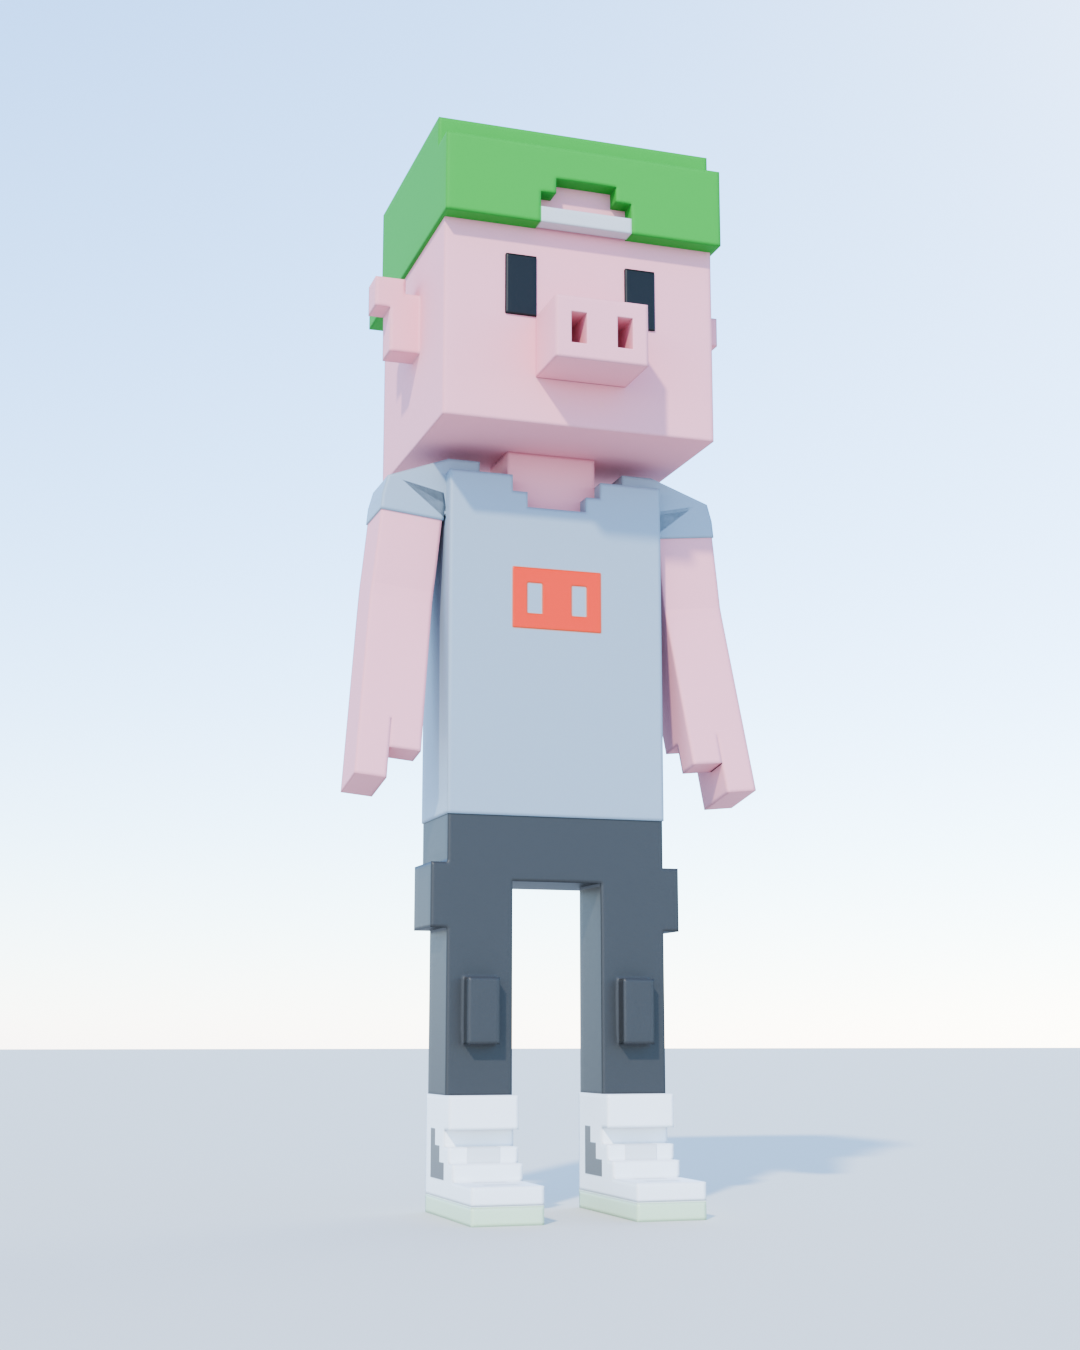
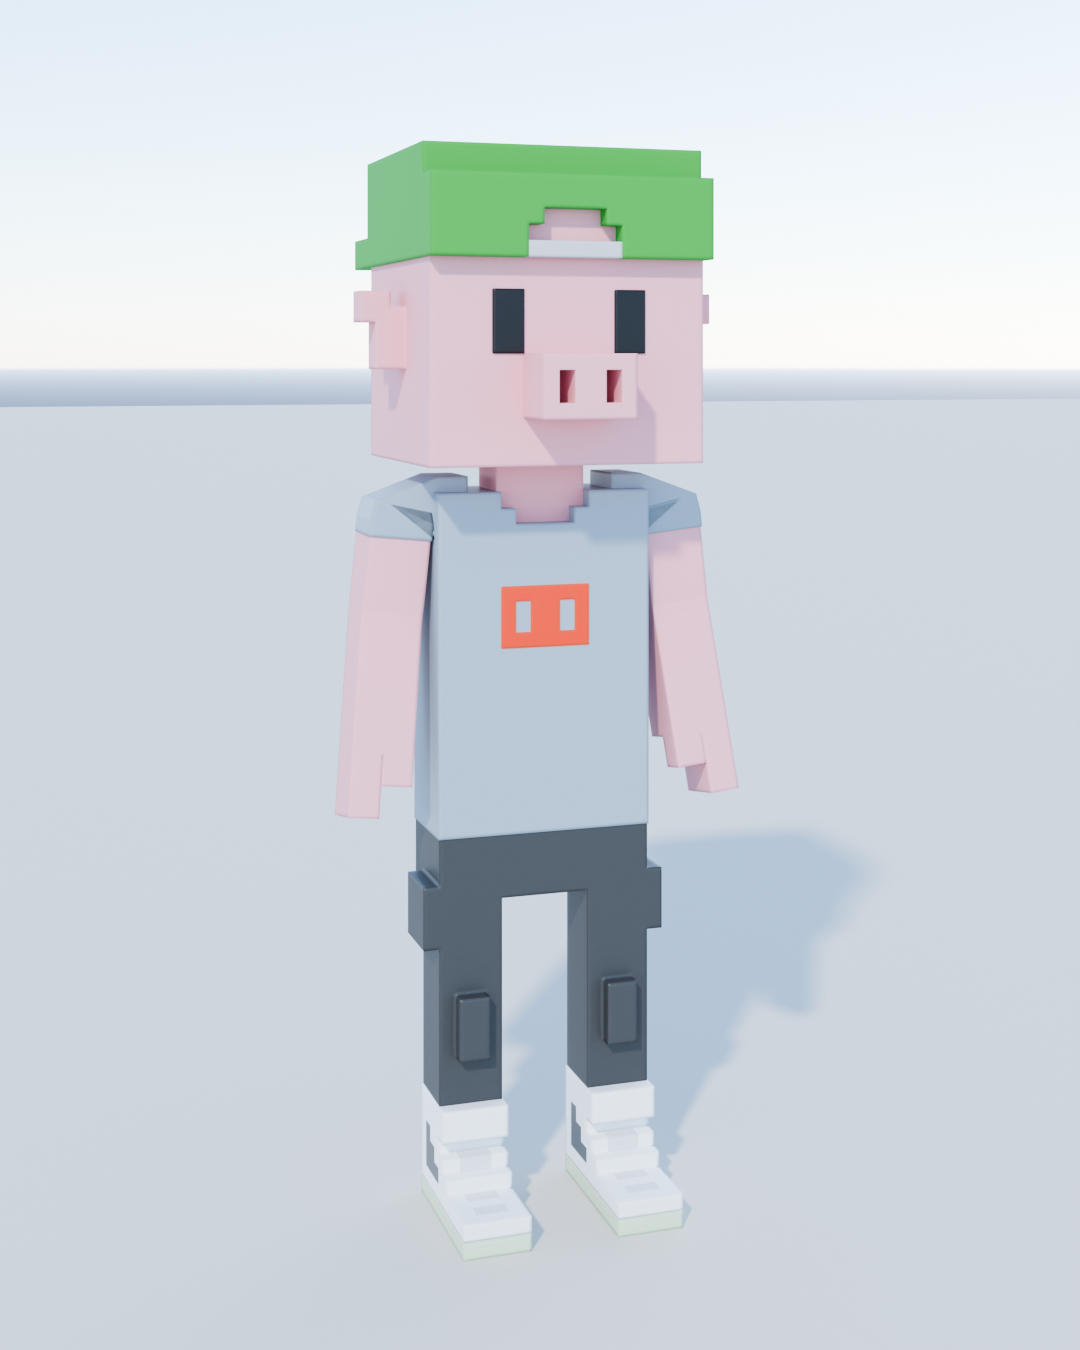
House look: eye-level camera instead of a low angle
The camera stands level at the Meebits' eye height and uses lens shift to
frame them, so verticals stay upright. README images re-rendered.

diff --git a/blender/meebits_kit/look.py b/blender/meebits_kit/look.py
@@ -1,4 +1,7 @@
-"""The house look: AgX, a sky, one warm sun, a plain floor and a low camera looking up at the Meebits.
+"""The house look: AgX, a sky, one warm sun, a plain floor and a camera at the Meebits' eye level.
+
+The camera never looks up at them: a Meebit feels magnificent through the light and the setting, not
+because the audience has to crane its neck.
 
 Running it again updates the same lights, floor and camera instead of adding new ones.
 """
@@ -13,8 +16,7 @@ LOOK = "Meebits Look"
 SUN_ELEVATION = 38     # degrees above the horizon
 SUN_FROM = -35         # compass direction the sun comes from; 0 is from behind the camera
 CAMERA_TURN = 18       # degrees the camera swings round to the Meebit's right of straight on
-CAMERA_TILT = 11       # degrees the camera looks up
-CAMERA_LOWEST = 0.3    # metres: the camera never goes lower than this
+HEAD_TO_EYES = 0.17    # metres from the head bone up to a Meebit's eyes
 LENS = 50
 FLOOR = "#cfc8bd"
 
@@ -137,21 +139,26 @@ def _camera(scene, coll, rigs):
             pts += [ev.matrix_world @ Vector(c) for c in ev.bound_box]
     if not pts:
         pts = [Vector((-0.4, -0.3, 0)), Vector((0.4, 0.3, 1.4))]
-    # The Meebits face -Y, so the camera looks along +Y: swing it round, tip it up, then let Blender
-    # find where it has to stand for everything to fit, and step back for some air. A wide group
-    # pushes the camera far back, and far back at the full tilt it would sink below the floor, so
-    # the tilt eases off until the camera stays above CAMERA_LOWEST.
+    # The Meebits face -Y, so the camera looks along +Y: swing it round, keep it level, let Blender find
+    # where it has to stand for everything to fit, and step back for some air. Then raise or lower it to
+    # the Meebits' eye level and slide the frame (lens shift) so the framing stays the same and upright
+    # lines stay upright.
     coords = [c for p in pts for c in p]
     centre = sum(pts, Vector()) / len(pts)
-    tilt = CAMERA_TILT
-    while True:
-        cam.rotation_euler = Euler((math.radians(90 + tilt), 0, math.radians(-CAMERA_TURN)), "XYZ")
-        bpy.context.view_layer.update()
-        loc, _ = cam.camera_fit_coords(deps, coords)
-        cam.location = centre + (Vector(loc) - centre) * 1.18
-        if cam.location.z >= CAMERA_LOWEST or tilt <= 0:
-            break
-        tilt -= 0.5
+    data.shift_x = data.shift_y = 0.0
+    cam.rotation_euler = Euler((math.radians(90), 0, math.radians(-CAMERA_TURN)), "XYZ")
+    bpy.context.view_layer.update()
+    loc, _ = cam.camera_fit_coords(deps, coords)
+    cam.location = centre + (Vector(loc) - centre) * 1.18
+    eyes = [(rig.matrix_world @ rig.pose.bones["head"].head).z + HEAD_TO_EYES * rig.matrix_world.to_scale()[2]
+            for rig in rigs if "head" in rig.pose.bones]
+    if eyes:
+        view = cam.matrix_world.to_3x3() @ Vector((0, 0, -1))
+        distance = (centre - cam.location).dot(view)
+        frame = distance * data.sensor_width / data.lens        # the frame's longer side, at the Meebits
+        eye = sum(eyes) / len(eyes)
+        data.shift_y = (cam.location.z - eye) / frame
+        cam.location.z = eye
     return cam
 
 

diff --git a/blender/meebits_kit/__init__.py b/blender/meebits_kit/__init__.py
@@ -122,7 +122,7 @@ class MEEBITS_OT_stop(bpy.types.Operator):
 
 
 class MEEBITS_OT_house_look(bpy.types.Operator):
-    """Add the house look: AgX, a sky, a warm sun, a floor and a low camera framing every Meebit"""
+    """Add the house look: AgX, a sky, a warm sun, a floor and an eye-level camera framing every Meebit"""
     bl_idname = "meebits.house_look"
     bl_label = "House Look"
     bl_options = {"REGISTER", "UNDO"}

diff --git a/README.md b/README.md
@@ -7,8 +7,8 @@ Bring any Meebit into Blender or Unreal Engine by its token number.
 Type a number and you get that Meebit at the right scale, with its own materials, in the standard
 arms-down pose. Then make it move with any of the 23 motions Bailey made for MeebCo: idles, walks,
 runs, chats, greetings and presenting gestures. In Blender, one more click sets up the house look MeebCo
-uses for its films: AgX, a warm low sun, a plain floor and a low camera looking up. Every image in this
-README was rendered by the kit itself.
+uses for its films: AgX, a warm low sun, a plain floor and a camera at the Meebits' eye level. Every
+image in this README was rendered by the kit itself.
 
 | Where | What |
 |---|---|
